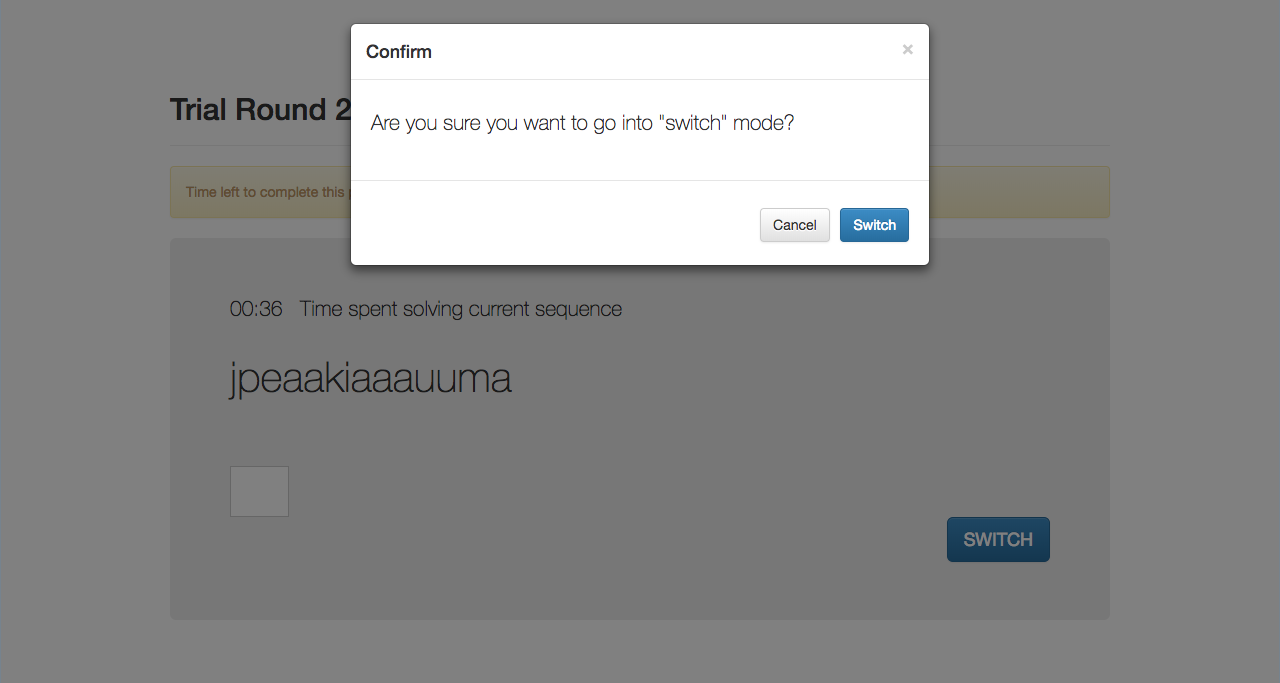
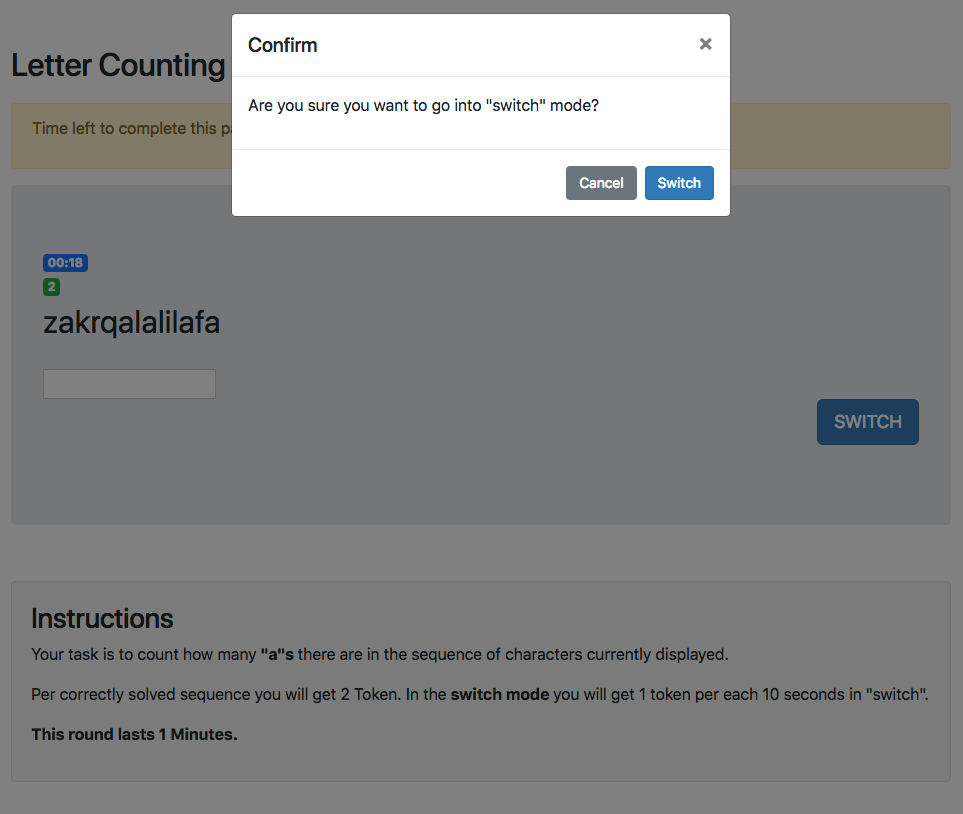
Updated Bootstrap Tour

diff --git a/templates/tullock_income_intro/SwitchInstructions.html b/templates/tullock_income_intro/SwitchInstructions.html
@@ -27,19 +27,19 @@
         <strong><em>switch mode</em></strong> earns you 1.3 Tk. Since the difficulty of the task increases,
         at a certain point you will earn more from staying in the <em>switch mode</em>
         than from solving tasks. Think therefore about when it is best for you change to the <strong><em>switch mode.</em></strong>
-
+        <p>
         <strong> Each round lasts {{ Constants.time_in_minutes|floatformat:0 }} minutes ({{ Constants.t }} seconds)</strong> in which you can either solve tasks or spend time in
         "switch" mode. A timer in yellow above the sequence will show you the time left in the current round and a green counter
         will tell you how many sequences you have solved so far.
-
+    </p>
         <br>
         <div class="alert alert-warning" role="alert">
         <U>Important:</U> Once you are in the <strong><em>switch mode</em></strong> you cannot go back to the letter counting task!
         </div>
-
+        <br>
     <p>
-        Below this panel you will find an annotated image with the positioning of the "switch" button, the timer and the sequence counter. Make sure you have familiarized
-        yourself with the screen before proceeding.
+        Below this panel you will find an example of how earnings from "Letter Counting" and "Switch" add up. During the first task an annotated tour will show you
+        the new relevant elements (Page Timer, Counter of Solved Sequences, and Switch Button).
     </p>
     </p>
     </div>
@@ -89,20 +89,10 @@
 </table>
     </div>
 <br>
+    <!--
 <div class="card bg-light instructions">
     <div class="card-body">
-    The following is an example of the layout of the screen for counting letters.
-    </div>
-</div>
-    <div class="card">
-    <div class="card-header text-white bg-primary mb-3">Task Screen</div>
-    <img src="{% static 'tullock_income_intro/task_inst_switch.png' %}" class="img-thumbnail"
-         alt="Responsive image">
-    </div>
-    <br>
-<div class="card bg-light instructions">
-    <div class="card-body">
-    To ensure that you do not enter the "switch" mode by mistake you will be asked for confirmation. An example screen is shown below.
+    Note: to ensure that you do not enter the "switch" mode by mistake you will be asked for confirmation. An example screen is shown below.
     </div>
     </div>
     <div class="card">
@@ -112,6 +102,7 @@
     </div>
 
     <br>
+    -->
     <br>
     <h4>Are you ready to proceed?</h4>
     {% next_button %}

diff --git a/templates/tullock_income_intro/RET.html b/templates/tullock_income_intro/RET.html
@@ -4,6 +4,7 @@
 
 {% block styles %}
     <link href="{% static "tullock_income_intro/css/Round.css" %}" rel="stylesheet">
+    <link href="{% static "tullock_income_intro/css/bootstrap-tour-standalone.min.css" %}" rel="stylesheet">
 {% endblock %}
 
 {% block title %}
@@ -37,7 +38,7 @@
 
 
 <!-- "Switch" Confirmation -->
-<button type="button" class="btn btn-primary btn-lg" data-toggle="modal" data-target="#myModal">
+<button type="button" id="switch_modal" class="btn btn-primary btn-lg" data-toggle="modal" data-target="#myModal">
   SWITCH
 </button>
 
@@ -52,11 +53,11 @@
         </button>
       </div>
       <div class="modal-body">
-        <p>Are you sure you want to go into "switch" mode?</p>
+        <p>Are you sure you want to go into "switch" mode? Once you are in "switch" you cannot go back to solving sequences!</p>
       </div>
       <div class="modal-footer">
         <button type="button" class="btn btn-secondary" data-dismiss="modal">Cancel</button>
-        <button type="button" class="btn btn-primary" id="Switch_button" data-dismiss="modal">Switch</button>
+        <button type="button" class="btn btn-danger" id="Switch_button" data-dismiss="modal">Switch</button>
       </div>
     </div>
   </div>
@@ -103,6 +104,13 @@
 {% endblock %}
 
 {% block scripts %}
+
+<script type="text/javascript" src="{% static 'tullock_income_intro/js/bootstrap-tour-standalone.min.js' %}"></script>
+
+    {% if subsession.round_number == 1 %}
+<script type="text/javascript" src="{% static 'tullock_income_intro/js/Tour-RET.js' %}"></script>
+    {% endif %}
+
         <!-- this needs to be in a separate file. -->
 <script>
 

diff --git a/static/tullock_income_intro/js/Tour-RET.js b/static/tullock_income_intro/js/Tour-RET.js
@@ -1,0 +1,52 @@
+
+//this initiates the tooltip mouseover to explain the counters
+$(function () {
+  $('[data-toggle="tooltip"]').tooltip()
+})
+//
+
+$(function () {
+  $('[data-toggle="popover"]').popover()
+})
+
+
+
+(function(){
+
+    var tour = new Tour({
+        storage : false,
+        debug: false
+    });
+
+    tour.addSteps([
+     {
+        element: ".otree-timer",
+        placement: "left",
+        backdrop: true,
+        title: "Time left in this round",
+        content: "This timer shows you the time left in this round to either solve sequences or stay in 'Switch'"
+      },
+     {
+        element: "#number_strings",
+        placement: "left",
+        backdrop: true,
+        title: "Number of Sequences Solved",
+        content: "This counter shows you how many sequences you have solved so far."
+      },
+      {
+        element: "#switch_modal",
+        placement: "right",
+        title: "Switch Button",
+        content: "By clicking this button you will enter the 'Switch' mode. You will need to confirm first. Once " +
+        "you go into 'Switch' mode you cannot go back to the letter counting task!",
+        duration: 10000
+      }
+    ]);
+
+    // Initialize the tour
+    tour.init();
+
+    // Start the tour
+    tour.start();
+
+}());

diff --git a/templates/tullock_income_intro/Round0.html b/templates/tullock_income_intro/Round0.html
@@ -48,5 +48,5 @@
 {% block scripts %}
     <script type="text/javascript" src="{% static 'tullock_income_intro/js/Round0.js' %}"></script>
     <script type="text/javascript" src="{% static 'tullock_income_intro/js/bootstrap-tour-standalone.min.js' %}"></script>
-    <script type="text/javascript" src="{% static 'tullock_income_intro/js/Tour.js' %}"></script>
+    <script type="text/javascript" src="{% static 'tullock_income_intro/js/Tour-Trial.js' %}"></script>
 {% endblock %}

diff --git a/templates/tullock_income_intro/HighWageInstructions.html b/templates/tullock_income_intro/HighWageInstructions.html
@@ -2,9 +2,6 @@
 {% load staticfiles otree %}
 {% load humanize %}
 
-{% block styles %}
-    <link href="{% static "tullock_income_intro/css/bootstrap_tour.min.css" %}" rel="stylesheet">
-{% endblock %}
 
 {% block title %}
     High Wage Earnings

diff --git a/static/tullock_income_intro/js/Tour-Trial.js b/static/tullock_income_intro/js/Tour-Trial.js
@@ -15,7 +15,7 @@ $(function () {
 
     var tour = new Tour({
         storage : false,
-        debug: true
+        debug: false
     });
 
     tour.addSteps([

diff --git a/models.py b/models.py
@@ -24,7 +24,7 @@ class Constants(BaseConstants):
     players_per_group = 3
     num_rounds = 2  # first round is with low, second with high wage
 
-    t = 60  # Total Time in seconds available for both solving and staying in switch
+    t = 180  # Total Time in seconds available for both solving and staying in switch
     # make sure to change images in instructions to be consistent with max time
     # also instructions tables
     time_in_minutes = t/60
